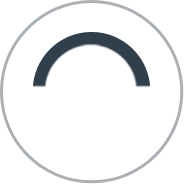
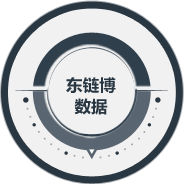
罗盘样式

diff --git a/WebContent/public/js/dlbSvg.js b/WebContent/public/js/dlbSvg.js
@@ -71,28 +71,28 @@ var luopanEvent = {};
                 for(var i=0;i<len;i++){
 
                     var svgItem = document.createElementNS("http://www.w3.org/2000/svg","a");
-                    svgItem.setAttribute('class','svg-item');
+                    svgItem.setAttribute('class',opts.data[i].selected?'svg-item-selected':'svg-item');
                     svgItem.setAttribute('item',"item-"+i);
                     svgItem.setAttribute('role','link');
                     luopanEvent['s'+i] = opts.data[i].onClick;
                     if($.isFunction(opts.data[i].onClick)){
                         svgItem.setAttributeNS('http://www.w3.org/1999/xlink',"xlink:href","javascript:luopanEvent['s"+i+"']("+i+")");
                     }else{
-                        svgItem.setAttributeNS('http://www.w3.org/1999/xlink',"xlink:href","javascript:"+(opts.data[i].link||'void(0)'));
+                        svgItem.setAttributeNS('http://www.w3.org/1999/xlink',"xlink:href","javascript:"+("window.location.href='"+opts.data[i].link+"'"||'void(0)'));
                     }
 
 
                     svgItem.setAttribute('transform','rotate('+angle*i+','+halfWidth+','+halfWidth+')');
                     var path1 = document.createElementNS("http://www.w3.org/2000/svg","path");
                     path1.setAttribute("fill","none");
-                    path1.setAttribute("opacity", '0.7');
+                    path1.setAttribute("opacity", '1.0');
                     path1.setAttribute("class",'sector');
                     path1.setAttribute("d", opts.path1);
 
 
                     var path2 = document.createElementNS("http://www.w3.org/2000/svg","path");
                     path2.setAttribute("fill","none");
-                    path2.setAttribute("opacity", '0.7');
+                    path2.setAttribute("opacity", '1.0');
                     path2.setAttribute("class",'decsec');
                     path2.setAttribute("d", opts.path2);
 

diff --git a/WebContent/public/css/bim.css b/WebContent/public/css/bim.css
@@ -6,21 +6,25 @@
  
 .svg-item .sector {
     transition: all .1s linear;
-    fill: #274b79;
-    stroke:#336CA6
+    fill: #b5bfc7;
 }
 .svg-item:hover .sector, .svg-item:focus .sector {
-    fill: #ee5126;
-    stroke:#7DA6C7;
+    fill: #afb5b9;
 }
 .svg-item-selected .sector{
-	fill:#f5d96c !important;stroke:#ffc059 !important
+	fill:#143858 !important;
 }
 .svg-item-selected .decsec{
-	fill:#decc85 !important
+	fill:#143858 !important
 }
 
 .svg-item .svg-txt{
+    transition: all .1s linear;
+    fill:#333;
+    cursor: pointer;
+    font-family: "Microsoft YaHei";
+}
+.svg-item-selected .svg-txt{
     transition: all .1s linear;
     fill:#fff;
     cursor: pointer;
@@ -35,7 +39,7 @@
     fill: #2e84db;
 }
 .svg-item:hover .decsec, .svg-item:focus .decsec{
-    fill: #ee5126;
+    fill: #515d67;
 }
 .svg-item-selected:hover .decsec, .svg-item:focus .decsec{
     fill: #7DA6C7;

diff --git a/WebContent/public/js/app/menu.js b/WebContent/public/js/app/menu.js
@@ -19,5 +19,33 @@ $(function(){
 		 thisMouseOut();
 	});
 	
-	$('#luopanSvg').luopan({});	
+	//'./project/queryProjectByRid.do?rid='+string
+	$.ajax({
+		   url:"./project/queryProjectByRid.do?rid="+string,
+		   type:"POST",
+		  dataType:"json",
+		   success:function(data){
+				$.ajax({
+					url:"./model/queryModelInfoByPid.do?pid="+data.data.pid,
+					type:"POST",
+					dataType:"json",
+					success:function(res){
+					var luopanData = [];
+					$.each(res.data,function(){
+						if(this.rid==string){
+							luopanData.push({name:this.name,link:'http://'+location.host+location.pathname+'?rid='+this.rid,selected:true})	
+						}else{
+							luopanData.push({name:this.name,link:'http://'+location.host+location.pathname+'?rid='+this.rid})
+						}
+											
+					})
+					$('#luopanSvg').luopan({
+						data:luopanData,
+					});	
+				}
+		})
+		   }
+		})
+	
+	
 })

diff --git a/WebContent/modelView.html b/WebContent/modelView.html
@@ -23,8 +23,7 @@
  <div id="luopanBox" class="ui-draggable">
     <div class="luopanBar">
         <svg xmlns="http://www.w3.org/2000/svg" version="1.1" id="luopanSvg" width="240" height="240">
-            <image x="28" y="28" width="184" height="184" id="luopanSvgImg1" xmlns:xlink="http://www.w3.org/1999/xlink" xlink:href="http://www.dlbdata.cn:10004/smartcity//img/luopan_bg.png"></image>
-            <image x="28" y="28" width="184" height="184" id="luopanSvgImg2" xmlns:xlink="http://www.w3.org/1999/xlink" xlink:href="http://www.dlbdata.cn:10004/smartcity//img/luopan_logo.png"></image>
+            <image x="28" y="28" width="184" height="184" id="luopanSvgImg1" xmlns:xlink="http://www.w3.org/1999/xlink" xlink:href="./public/images/luopan_bg.png"></image>
     </div>
 </div>
   <canvas id="mySceneCanvas" width="100%" height="100%"></canvas>  

diff --git a/WebContent/public/js/ifc/Constants.js b/WebContent/public/js/ifc/Constants.js
@@ -56,10 +56,10 @@ Ifc.Constants.defaultTypes = [
 
 Ifc.Constants.materials = {
 	IfcSpace: {r: 0.5, g: 0.4, b: 0.1, a: 1.0},
-	IfcRoof: {r: 220/255, g: 37/255, b: 22/255, a: 1},
+	IfcRoof: {r: 70/255, g: 30/255, b: 30/255, a: 1},
 	IfcSlab: {r: 217.0/255, g: 217.0/255, b:217.0/255, a: 0.5},
-	IfcWall: {r: 217.0/255, g: 217.0/255, b: 217.0/255, a:0.6},
-	IfcWallStandardCase: {r: 217.0/255, g: 217.0/255, b: 217.0/255, a: 0.6},
+	IfcWall: {r: 150/255, g: 150/255, b: 104.0/255, a:0.9},
+	IfcWallStandardCase: {r: 146.0/255, g: 72.0/255, b: 38.0/255, a:0.9},
 	IfcDoor: {r: 0.637255, g:  0.603922, b: 0.670588, a: 0.6},
 	IfcWindow: {r: 0, g: 0, b: 0.8, a: 0.5},
 	IfcOpeningElement: {r: 0.137255, g: 0.403922, b: 0.870588, a: 0},

diff --git a/WebContent/public/js/scenejs/plugins/node/geometry/ifcmodel.js b/WebContent/public/js/scenejs/plugins/node/geometry/ifcmodel.js
@@ -78,9 +78,9 @@
 					name : geometryInfo.oid,
 					nodes : [{
 						type : "material",
-						baseColor: geometryInfo.color ? { r: geometryInfo.color.r , g:geometryInfo.color.g , b:geometryInfo.color.b } : material,
-						color:geometryInfo.color ? { r: geometryInfo.color.r , g:geometryInfo.color.g , b:geometryInfo.color.b } : material,
-						alpha:  geometryInfo.color ? geometryInfo.color.a  : material.a,
+						baseColor: material,
+						color:material,
+						alpha: material.a,
 	        			id:geometryInfo.oid+"geometry",
 						nodes: [{
 		        			type : "geometry",

diff --git a/WebContent/public/css/index.css b/WebContent/public/css/index.css
@@ -302,7 +302,7 @@ li.li.hover .iconfont1{display:block;}
     
         #luopanBox {
             position: absolute;
-            bottom: 29px;
+            bottom: 100px;
             right: 20px;
             z-index: 20;
         }

diff --git a/WebContent/public/js/app/sceneTree.js b/WebContent/public/js/app/sceneTree.js
@@ -127,4 +127,12 @@ myApp.controller('searchCtrl', function ($scope, $http) {
 });
 
 myApp.controller('markCtrl', function ($scope, $http) {
+		
+		$scope.changColor=function(){
+			$('.demo').minicolors();
+		}
+        
+
+
+
 });

diff --git a/WebContent/admin/js/ajax.js b/WebContent/admin/js/ajax.js
@@ -44,7 +44,6 @@ function validateCallback(form, callback, confirmMsg) {
 				alert(res);
 			});   
 		}
-		
     }
 	return false;
 }
